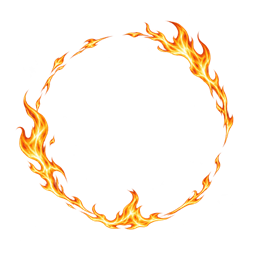
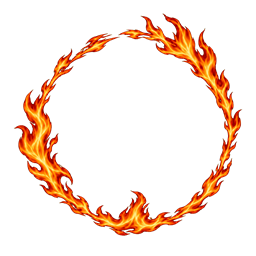
Refine Sole Survivor flame halo

Changed region(s): [[0.0625, 0.0625, 0.9688, 0.9375]]

diff --git a/frontend/src/index.css b/frontend/src/index.css
@@ -705,12 +705,13 @@ html.locked-night .app-shell .ss-champion::before {
   pointer-events: none;
   background: url("/sole-survivor-flame-halo.png") center / contain no-repeat;
   opacity: 0.72;
-  filter: drop-shadow(0 0 2px rgb(238 169 47 / 42%));
+  filter: brightness(0.9) saturate(0.94) drop-shadow(0 0 2px rgb(185 91 28 / 38%));
   transform: translate(-50%, -50%) rotate(-9deg);
 }
 .sole-survivor-halo > .contestant-avatar {
   position: relative;
   z-index: 1;
+  border-color: var(--color-gold-200);
 }
 .sole-survivor-halo--snuffed::after {
   opacity: 0.24;

diff --git a/design/sole-survivor-flames/README.md b/design/sole-survivor-flames/README.md
@@ -26,7 +26,7 @@ This study tests two still-in-game treatments for the designated Sole Survivor o
 - Keep the existing Sole Survivor label for clarity and accessibility.
 - Apply flame artwork with `pointer-events: none` so row selection and expansion remain unchanged.
 - For an eliminated designee, remove the live orange flame or convert it to a dim ash treatment so it matches the existing snuffed-champion behavior.
-- Retain the tribe-color portrait border beneath the halo.
+- Match the designated castaway's portrait border to the flame's pale-gold highlight.
 
 ## Assets
 
